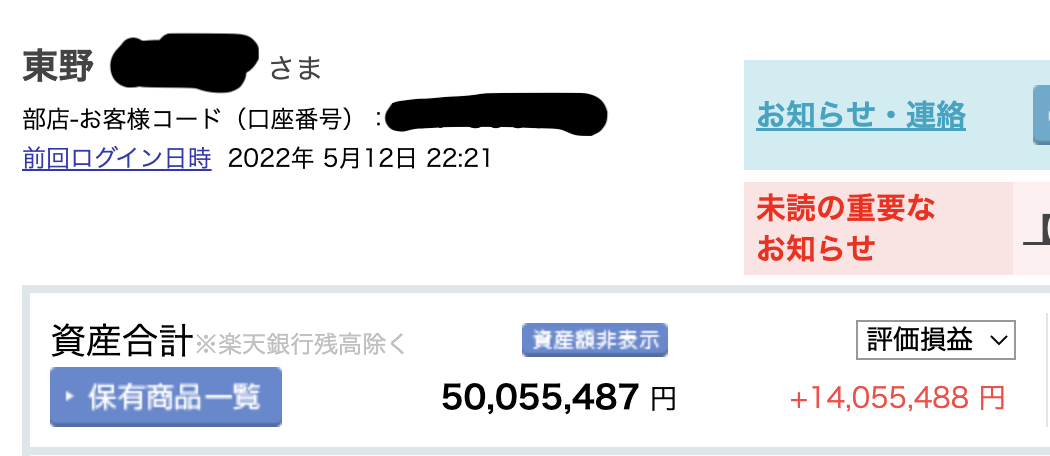
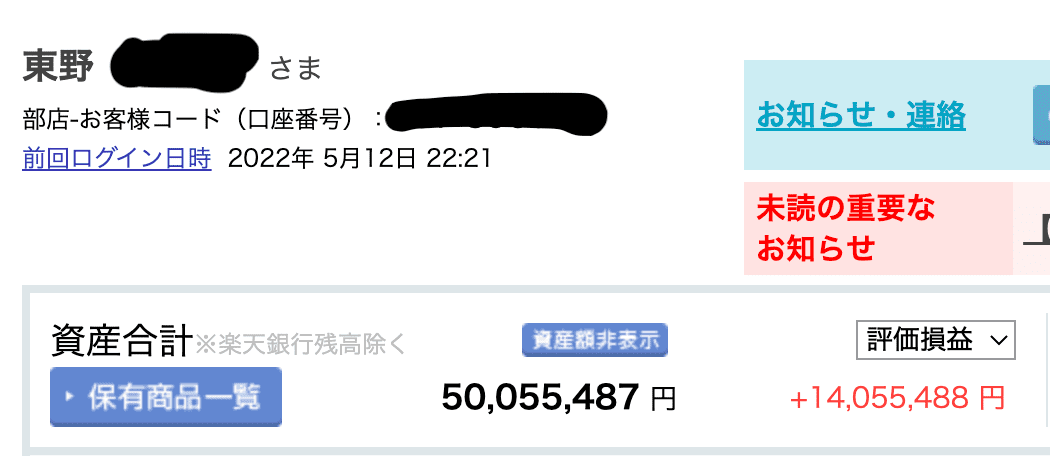
compress image

diff --git a/layouts/_default/baseof.html b/layouts/_default/baseof.html
@@ -24,6 +24,7 @@
     font-family: 'Noto Sans JP', sans-serif;
     background: #000;
     color: #fff;
+    word-break: break-word;
   }
 
   header {

diff --git a/layouts/_default/single.html b/layouts/_default/single.html
@@ -26,8 +26,8 @@
 
   img {
     display: block;
-    max-width: 500px;
     width: 100%;
+    max-width: 500px;
   }
 </style>
 
